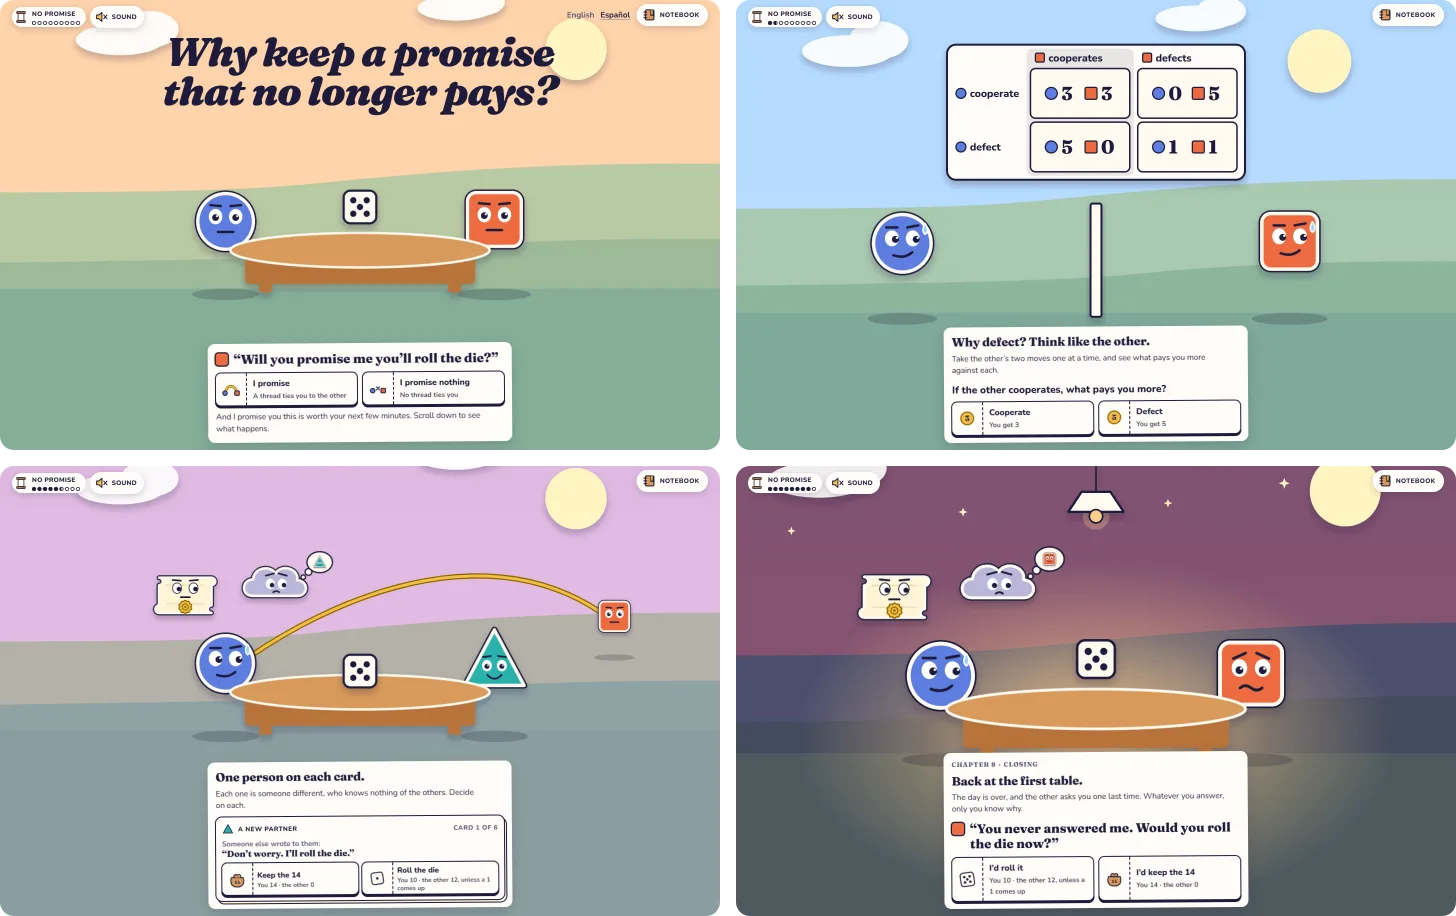
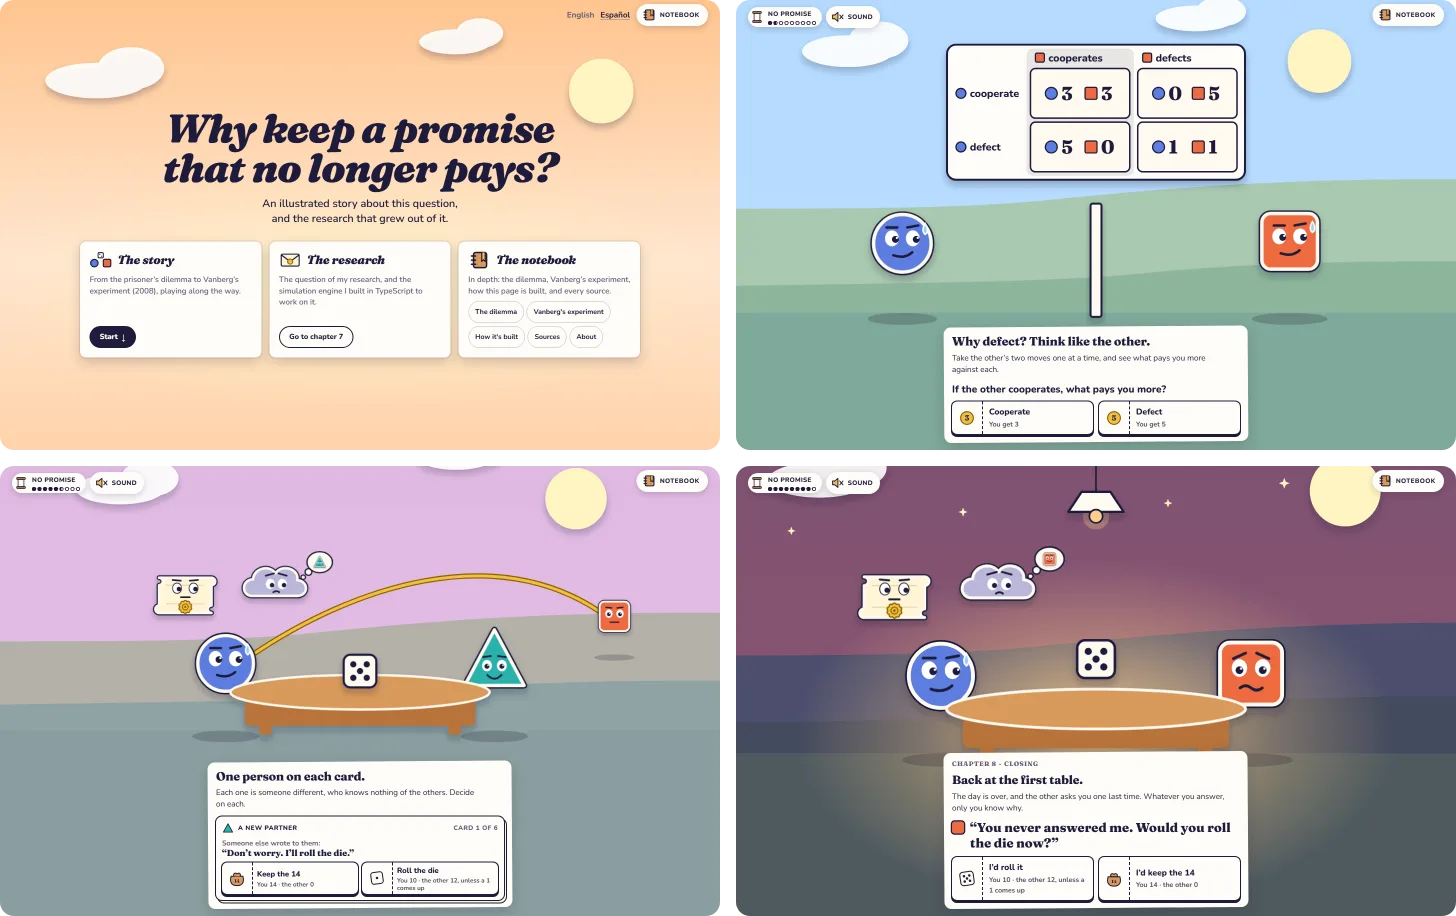
docs(readme): open the README's frames on the cover (8.6)
The first of the four frames showed chapter 0 with the title over the
stage, which it no longer has (ADR 0036): it is now the cover at dawn,
with the title and its three doors. The other three are taken again on
the same beats, from the current build.

diff --git a/README.es.md b/README.es.md
@@ -4,7 +4,7 @@
 
 **[Abrir el sitio](https://montse2308.github.io/why-keep-a-promise/es/)**
 
-![Cuatro cuadros de la historia a lo largo del día: el título al amanecer, el dilema del prisionero a mediodía, una pareja nueva en la mesa por la tarde mientras el hilo de la promesa sigue yendo a quien se fue, y otra vez la primera mesa de noche.](.github/readme/film-es.webp)
+![Cuatro cuadros de la página a lo largo del día: la portada al amanecer, con el título y sus tres puertas, el dilema del prisionero a mediodía, una pareja nueva en la mesa por la tarde mientras el hilo de la promesa sigue yendo a quien se fue, y otra vez la primera mesa de noche.](.github/readme/film-es.webp)
 
 La página de divulgación de un proyecto personal de investigación sobre por qué la gente cumple
 promesas que ya no le convienen. El home abre con una portada con una puerta a cada parte de la

diff --git a/README.md b/README.md
@@ -4,7 +4,7 @@
 
 **[Open the site](https://montse2308.github.io/why-keep-a-promise/)**
 
-![Four frames of the story as the day goes by: the title at dawn, the prisoner's dilemma at midday, a new partner at the table in the afternoon while the thread of the promise still runs to the one who left, and the first table again at night.](.github/readme/film-en.webp)
+![Four frames of the page as the day goes by: the cover at dawn, with the title and its three doors, the prisoner's dilemma at midday, a new partner at the table in the afternoon while the thread of the promise still runs to the one who left, and the first table again at night.](.github/readme/film-en.webp)
 
 The outreach page of a personal research project on why people keep promises that no longer pay
 them. The home opens on a cover with a door to each part of the page, then a short illustrated
